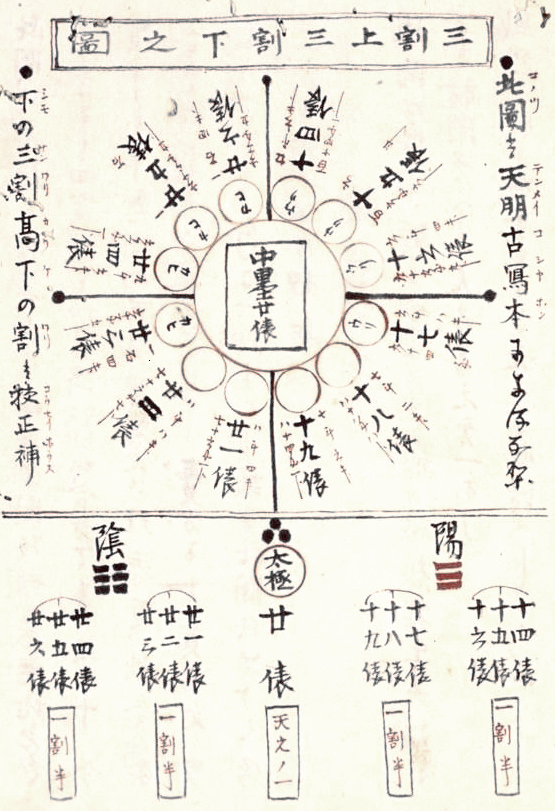
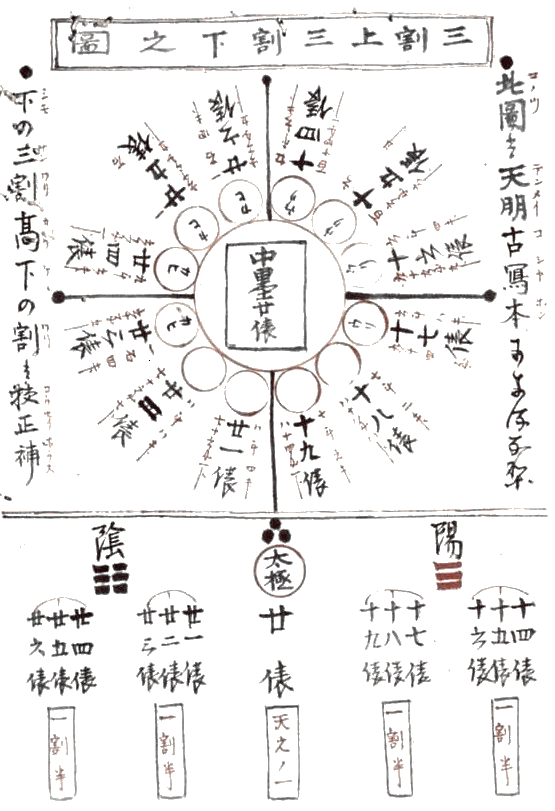
Add misattribution story to introduction; update diagram images
Translator's Introduction now includes:
- "Authorship and the Edo Rice Market" section identifying Ushida
  Gonzaburō as the author, with pen name Jiunsai (慈雲斎), composed 1755
- "A Note on Attribution" section documenting how English-language
  sources incorrectly attribute this text to Honma Munehisa of Sakata:
  - The confusion entered English through Nison's 1991 book
  - Nison partially retracted in Beyond Candlesticks (1994, p.14)
  - English sources merged Ushida's title with Honma's name
  - Two English books use Ushida's title but translate Honma's texts
  - Japanese sources (NDL, CiNii, Kyoto University) unanimously
    attribute the text to Ushida
- Positions the book as the first English translation of the actual text

Bibliography: added Beyond Candlesticks (Nison, 1994).

Diagram images: updated to cleaned-up, color-corrected PNGs.
Removed old JPG versions.

diff --git a/sanen-kinsen-hiroku.tex b/sanen-kinsen-hiroku.tex
@@ -86,7 +86,7 @@
   linkcolor=chaptercolor,
   urlcolor=blue!60!black,
   pdftitle={Sanen Kinsen Hiroku: Three Monkeys Gold Spring Secret Record},
-  pdfauthor={Edited by Zach Booth; translated with AI assistance (Claude, Anthropic)},
+  pdfauthor={Edited by Zach Booth; translated with AI assistance (Claude Opus 4.6, Anthropic)},
 }
 
 % =============================================================================
@@ -207,15 +207,15 @@ as a warning to the trader: do not be swayed by what you \textit{see} others
 doing, what you \textit{hear} as rumor, or what you \textit{say} in haste.
 Instead, observe the deeper patterns.
 
-The manuscript attributes authorship to Ushida Gonzabur\=o\linebreak
-(\jp{牛田権三郎}) and credits Narukawa Takenosuke (\jp{鳴川猛之助}) as
-editor and corrector. It belongs to a genre of ``secret market
-transmission texts'' (\jp{相場秘伝書}, \textit{s\=oba hidensho}) that
-circulated among Edo-period trading houses. Many such texts were copied,
-modified, and reattributed across generations; some circulate under the name
-of Honma Munehisa (\jp{本間宗久}) of Sakata. The reader should understand
-this as a text from a \textit{tradition} rather than a single author's
-original composition.
+\section*{Authorship and the Edo Rice Market}
+
+The manuscript names its author as Ushida Gonzabur\=o (\jp{牛田権三郎}),
+an Osaka D\=ojima trader from Ise province who wrote under the pen name
+Jiunsai (\jp{慈雲斎}). The text was composed around 1755 and later
+revised and corrected by Narukawa Takenosuke (\jp{鳴川猛之助}). It
+belongs to a genre of ``secret market transmission texts''
+(\jp{相場秘伝書}, \textit{s\=oba hidensho}) that circulated among
+Edo-period trading houses.
 
 During the Tokugawa period (1603--1868), rice was the basis of the economy.
 The D\=ojima Rice Exchange (\jp{堂島米会所}) in Osaka functioned as a
@@ -225,7 +225,50 @@ as a spot market. Organized futures trading (\jp{帳合米}) was formally
 authorized by the shogunate in 1730, making it one of the world's first
 organized futures markets.}
 
-What follows is a direct translation of the complete text.
+\section*{A Note on Attribution}
+
+English-language sources almost universally attribute this text to Honma
+Munehisa (\jp{本間宗久}) of Sakata, often under the title ``The Fountain
+of Gold---The Three Monkey Record of Money.'' This attribution is
+incorrect.
+
+The manuscript names its author as Ushida Gonzabur\=o and its editor as
+Narukawa Takenosuke---as do the National Diet Library catalog, the CiNii
+bibliographic record, and every Japanese-language reference work that
+discusses it. In Japanese scholarship, this is not controversial:
+the NDL, CiNii, Kyoto University's digital archive, and sources from
+Honma's own hometown (the Shonai Securities company of Sakata) all
+attribute the \textit{Sanen Kinsen Hiroku} to Ushida.
+
+Honma Munehisa was a real historical figure---a Sakata trader who was
+expelled from his own family for speculating with company capital and who
+became legendary in his own right. Texts were later attributed to him
+(the \textit{S\=oky\=u-\=o Hiroku} and \textit{S\=oba Sanmai-den}),
+though no Edo-period originals of these survive; Japanese scholars suspect
+they were compiled in the Meiji era. Honma's texts have entirely different
+titles and contents from Ushida's.
+
+The confusion appears to have entered English through Steve Nison's
+influential \textit{Japanese Candlestick Charting Techniques} (1991),
+which consolidated several distinct figures and texts into a single
+narrative. Nison attributed candlestick charts to Honma; he partially
+corrected this in \textit{Beyond Candlesticks} (1994, p.\,14), writing
+that his research indicated Honma ``likely did not use candlestick
+charts.'' But the first book sold millions of copies; the retraction is a
+footnote in a sequel.
+
+In the decades since, English sources have merged Ushida's title with
+Honma's name, creating a phantom text: ``The Fountain of Gold'' (\jp{金泉})
+and ``Three Monkeys'' (\jp{三猿}) are both from Ushida's title; the Honma
+texts have completely different names. Two English-language books have been
+published under variations of this text's title. Neither translates it.
+Both render a separate body of trading maxims from the Honma/Sakata
+tradition---a related but distinct lineage---while putting Ushida's title
+on the cover.
+
+What follows is, to my knowledge, the first English translation of the
+actual \textit{Sanen Kinsen Hiroku}, made directly from the 1851
+manuscript held at Kyoto University (Record ID: RB00012360).
 
 \vspace{1em}
 \begin{flushright}
@@ -414,7 +457,7 @@ months are for buying; favorable months are for the pattern of waiting.
 
 In a year of good harvest (\jt{上作}{j\=osaku}), rice is abundant and
 prices are depressed.\tn{\jp{上作}/\jp{中作}/\jp{下作} refer to harvest
-quality grades---good, average, and poor---not geographic regions.
+quality grades---good, average, and poor.
 \jp{上作} (literally ``upper crop'') is an abundant harvest; \jp{下作}
 (``lower crop'') is a poor one.} In an average harvest
 (\jt{中作}{ch\=usaku}), prices fall between the extremes. In a poor
@@ -1249,6 +1292,9 @@ wisdom and prosper.
 \item Moss, David A., and Eugene Kintgen. ``The Dojima Rice Market and
   the Origins of Futures Trading.'' Harvard Business School Case 709-044.
   Boston: Harvard Business School Publishing, 2009. Revised 2010.
+
+\item Nison, Steve. \textit{Beyond Candlesticks: New Japanese Charting
+  Techniques Revealed}. New York: John Wiley \& Sons, 1994.
 
 \item Nison, Steve. \textit{Japanese Candlestick Charting Techniques}.
   2nd ed. New York: Prentice Hall Press, 2001.
